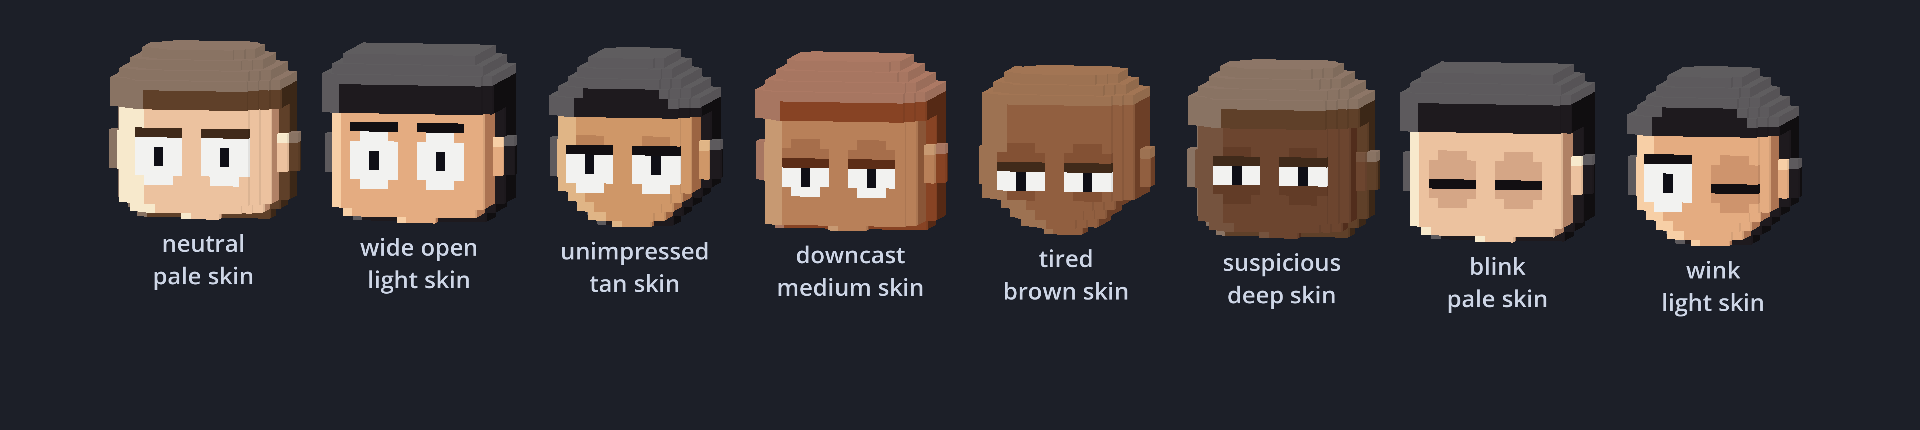
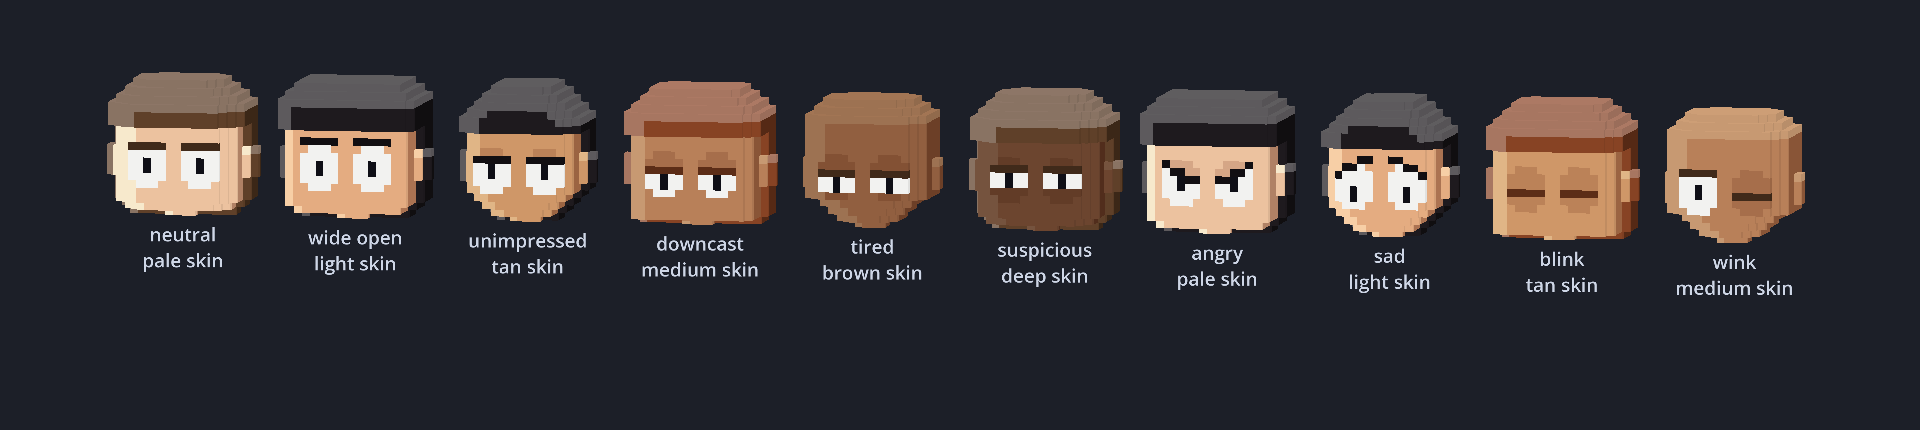
Lid tilt: angry and sad
A fifth number per eye slants the upper lid, and with it the brow: +n puts
the inner end (nearest the nose) n rows lower than the outer end, -n puts it
higher, in even steps across the eye; both eyes mirror. New named states:
angry (upper 1, tilt +2) and sad (upper 2, tilt -2, pupil down 1). Tests for
the slant direction, the step pattern and mirroring; every state still fits
every head. New close-up review sheet faces_tilt.png. SPEC 5 and NOTES.

1433 checks pass.

Claude-Session: https://claude.ai/code/session_01EovwGUjKAJxTGWSNshY1KA

Changed region(s): [[0.0312, 0.0907, 0.9375, 0.7256], [0.8438, 0.6047, 0.9375, 0.7256]]

diff --git a/SPEC.md b/SPEC.md
@@ -174,17 +174,20 @@ the lids drive; see below.)
   it covers the eye's top row and no lid shows. Rows the lower lid covers are lid, **with no line**. When the lids
   meet the eye is closed: lid, with the brow line at the upper lid's edge. The brow is always the full eye width.
   The one line serves as both brow and lash line (owner accepted the compromise; it reads as the brow when wide open).
+  **Tilt** slants the upper lid, and so the brow: +n puts its inner end (nearest the nose) n rows lower than its outer
+  end, −n puts it n rows higher, in even steps across the eye (a tilt of 2 steps 0, 1, 1, 2, 2). Both eyes mirror.
 - **Lid colour:** the skin tone half a shade darker (halfway from its mid to its dark). **Brow colour:** the hair
   colour one shade darker (its garment dark tone); bald characters get the brow of dark-brown hair unless a brow colour
   is set.
 - **Named lid states:** neutral (upper 1), wide open (0), unimpressed (upper 2), downcast (upper 3, pupil down 1),
-  tired (upper 3, lower 1, pupil down 1), suspicious (upper 2, lower 2), blink (closed), wink (one eye closed). They
+  tired (upper 3, lower 1, pupil down 1), suspicious (upper 2, lower 2), angry (upper 1, tilt +2), sad (upper 2,
+  tilt −2, pupil down 1), blink (closed), wink (one eye closed). They
   live in code; they are chosen on the editor's Preview tab only. Blinking is a lid state swap.
 - **Roles:** white, pupil (= eye colour; a colourway), line (in drawn expressions), lid and brow (from the lid state).
 - **Drawn expressions** remain: each is defined **once per eye in box cells** (c from the eye's outer edge, r from its
   bottom row), drawn in the Face & Hair tab, and lids apply on top. The 11 starters (neutral, blink, happy, angry, sad,
   surprised, bored, wink, look_left, look_right, look_down) were only roughly adapted to the 5×6 box; most are now
-  better made with lids, and what to keep is still open.
+  better made with lids (angry and sad now are), and what to keep is still open.
 - Draw order: the face draws **under** hair and hats.
 
 ## 6. Shading and colour

diff --git a/docs/NOTES.md b/docs/NOTES.md
@@ -11,7 +11,7 @@ which parts are solid and which are guesses.
 
 ## 1. Verification status
 
-**Everything compiles and the acceptance suite is green: 1427 checks, 0 failures.**
+**Everything compiles and the acceptance suite is green: 1433 checks, 0 failures.**
 
 ```bash
 tests/run.sh                 # measures the assets, then runs the Godot suite
@@ -383,15 +383,16 @@ Worked out with the owner through mock-ups, neutral only:
 - **Where it shows:** Preview has Eyelids, Skin tone and Brows controls.
   Bodies and Clothes show neutral; Face & Hair shows wide open, so no lid hides
   the drawing being edited (the raised brow still shows against the hair).
-- **Review sheet:** `docs/renders/faces.png`, every lid state on a different
-  head, skin tone and hair.
+- **Review sheets:** `docs/renders/faces.png`, every lid state on a different
+  head, skin tone and hair; `faces_tilt.png`, angry and sad close up.
 
 Still open, from this:
 
 1. **Drawn expressions vs lids.** The 11 drawn starters were only roughly
-   adapted to 5 x 6; most are better made with lids now. Lids cannot do
-   happy's arcs or slanted angry/sad lids -- lid *tilt* is the likely next
-   step. What to keep is the owner's call.
+   adapted to 5 x 6; most are better made with lids now. Lid *tilt* is built
+   (angry, sad), so lids now cover everything but happy's arcs. What to keep
+   is the owner's call. Sad as built reads somewhat worried; a droopier
+   variant (more upper lid, a little lower lid) is easy if wanted.
 2. **Brow colour on light hair** is the weakest case (fair hair gives a light
    line). Revisit if it reads badly in use.
 3. **Runtime cost of blinking (unmeasured).** A lid change rebuilds the

diff --git a/README.md b/README.md
@@ -62,7 +62,7 @@ same character assembled the way the game will do it, with no editor involved.
 ## Tests
 
 Every acceptance check in `SPEC.md` section 12 is an automated test.
-**1427 checks, all passing** on Godot 4.7.2.
+**1433 checks, all passing** on Godot 4.7.2.
 
 ```bash
 godot --headless --path . --script res://tests/run_tests.gd
